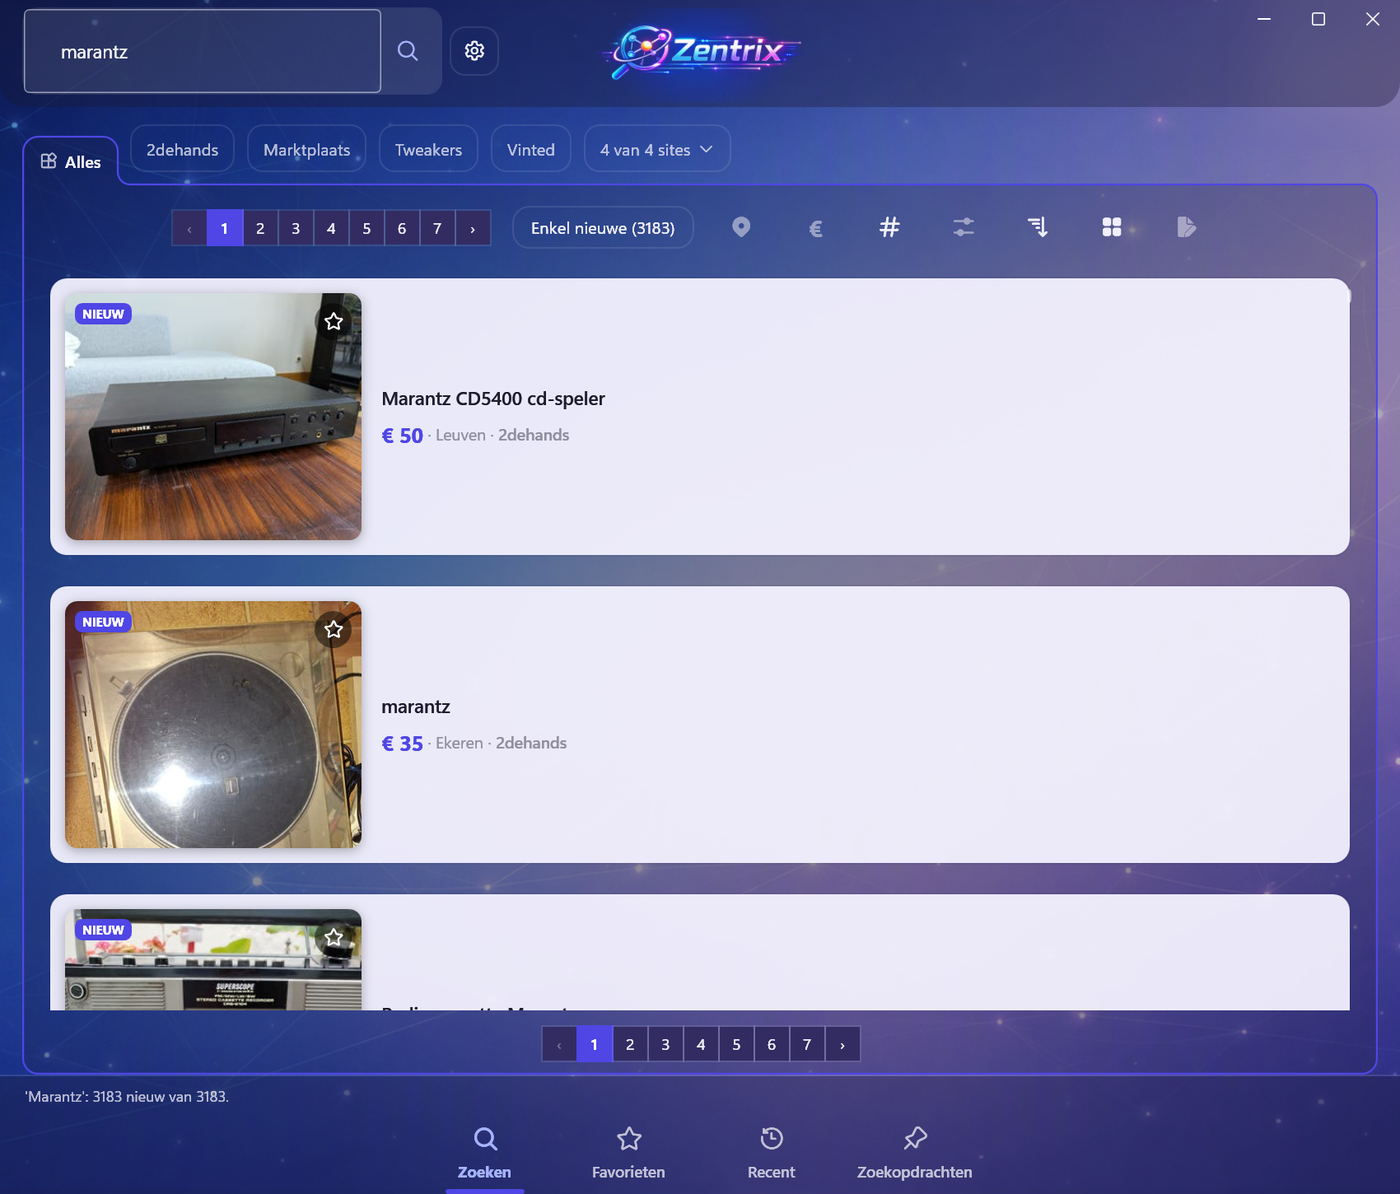
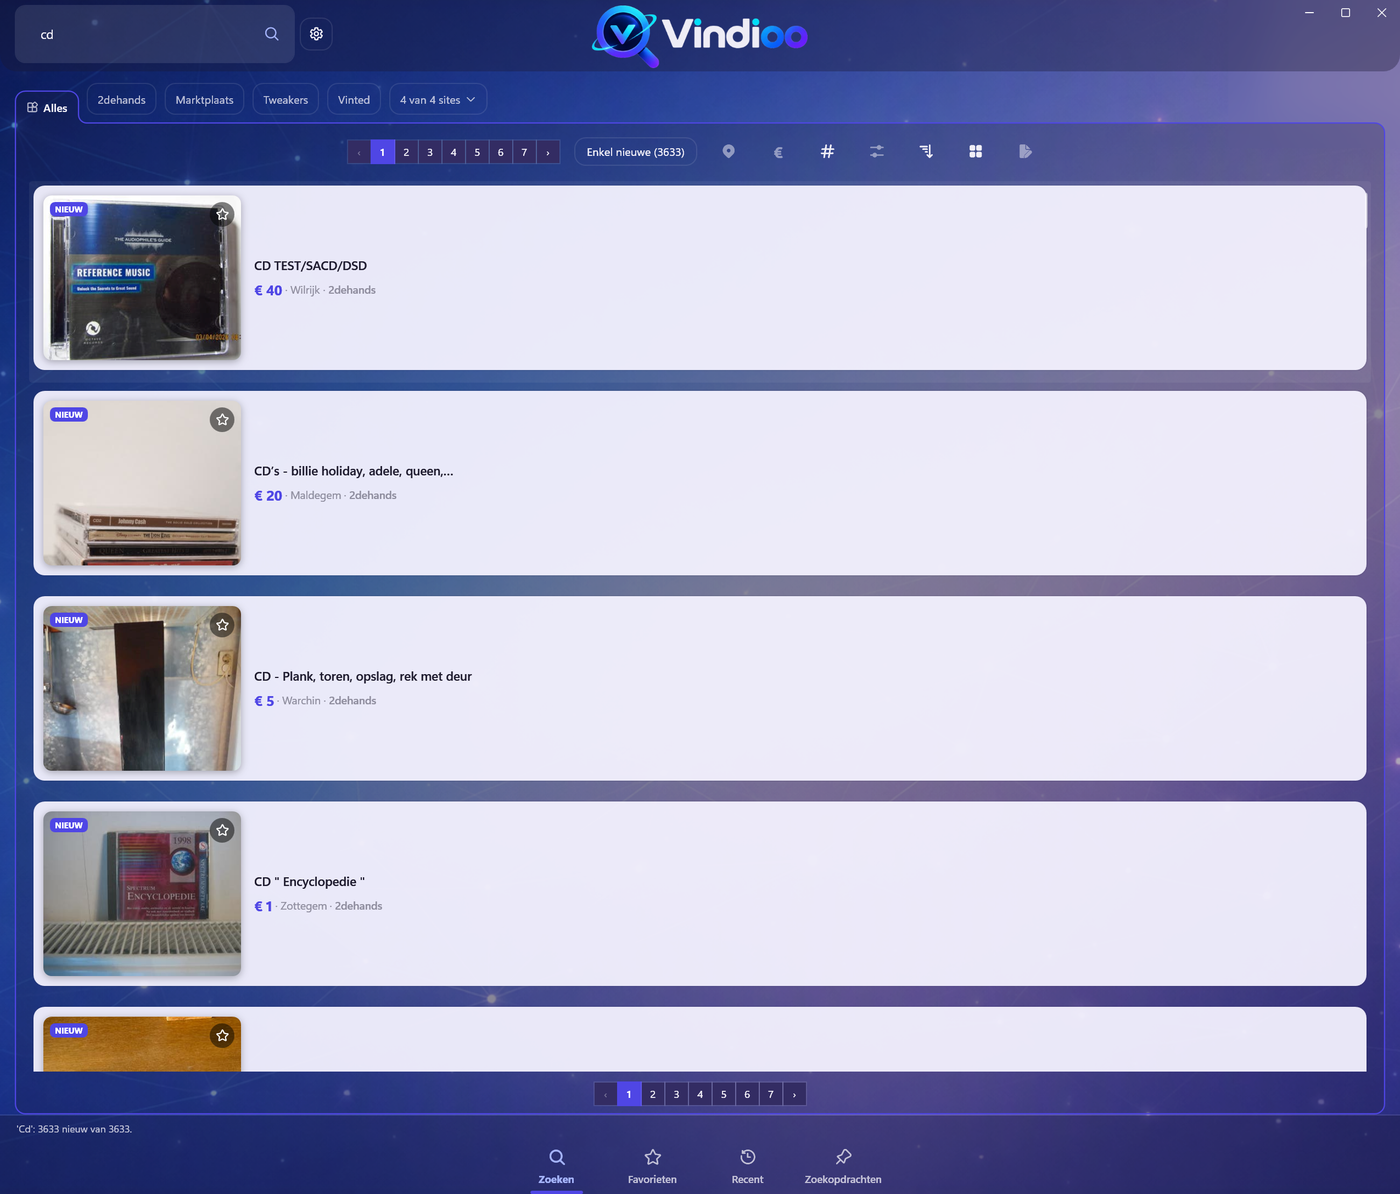
Nieuwe schermafbeelding: de README toonde nog de oude naam
Het laatste stuk van de hernoeming dat niet met zoek-en-vervang meeging. Het
oude beeld toonde een venster met "Zentrix" in de kop, op de voorpagina van een
repo die Vindioo heet.

Gemaakt met het recept dat in docs/project.md staat, zodat er geen persoonlijke
gegevens op komen: een VERSE gegevensmap via VINDIOO_DATA, vier rechtstreekse
sites (2dehands, Marktplaats, Tweakers V&A, Vinted) en een bewaarde zoekopdracht
met RunOnStartup, zodat de planner ze bij het opstarten draait. Geen Facebook,
want die zoekt in je eigen regio en dan staan de steden rond je thuis op een
foto die openbaar gaat. Nagegaan dat %APPDATA%\Zentrix er na afloop onaangeroerd
bij stond en de proefmap opgeruimd is.

Resultaat: 3633 zoekertjes over vier sites, nul mislukte sites, dezelfde
kadrering en exact dezelfde beeldverhouding als de vorige, teruggeschaald naar
1400x1194 zodat de README niet van opmaak verandert.

En het aantal controles in CLAUDE.md van 661 naar 663. Dat is GEEN winst van
deze commit: 661 was gemeten terwijl Chrome's brug-extensie zich met een andere
code meldde, waardoor twee controles wegvielen. Met de extensie in haar gewone
doen draaien ze mee. Nagegaan door de meting te herhalen met en zonder deze
wijziging - beide keren 663.

diff --git a/docs/project.md b/docs/project.md
@@ -247,7 +247,8 @@ en waarom de sites niet meegaan, staat bij "Volgende stappen" punt 8. Twee besta
 bijgekomen en horen bij een openbare repository: `README.md` (de voordeur: wat het is, hoe je het
 bouwt, en dat de app zonder sites komt) en `LICENSE`.
 
-**In de README staat een schermafbeelding** (`docs/schermafbeelding.png`, 29 september 2026), en
+**In de README staat een schermafbeelding** (`docs/schermafbeelding.png`, opnieuw gemaakt op
+3 oktober 2026 bij de hernoeming naar Vindioo - de vorige toonde nog de oude naam in de kop), en
 die is met opzet niet van de eigen Vindioo gemaakt. Ze toont een **lege gegevensmap**
 (`VINDIOO_DATA` naar een verse map) met vier rechtstreekse sites, zodat er geen bewaarde
 zoekopdrachten, favorieten, postcode of straal in beeld staan. Facebook blijft er bewust uit: die

diff --git a/CLAUDE.md b/CLAUDE.md
@@ -130,7 +130,7 @@ dotnet publish Vindioo.csproj -c Release -r win-x64 --self-contained true -o C:\
 ```
 
 De controles drukken per stuk OK of FOUT af en eindigen met "ALLES OK" en het aantal. Draait
-Vindioo of Chrome-met-de-brug, dan vallen er controles weg en zeggen ze dat zelf (661 met Vindioo
+Vindioo of Chrome-met-de-brug, dan vallen er controles weg en zeggen ze dat zelf (663 met Vindioo
 dicht en Chrome open, 616 met Vindioo erbij — gemeten 3 oktober 2026). Publiceren kan enkel met
 Vindioo dicht.
 
